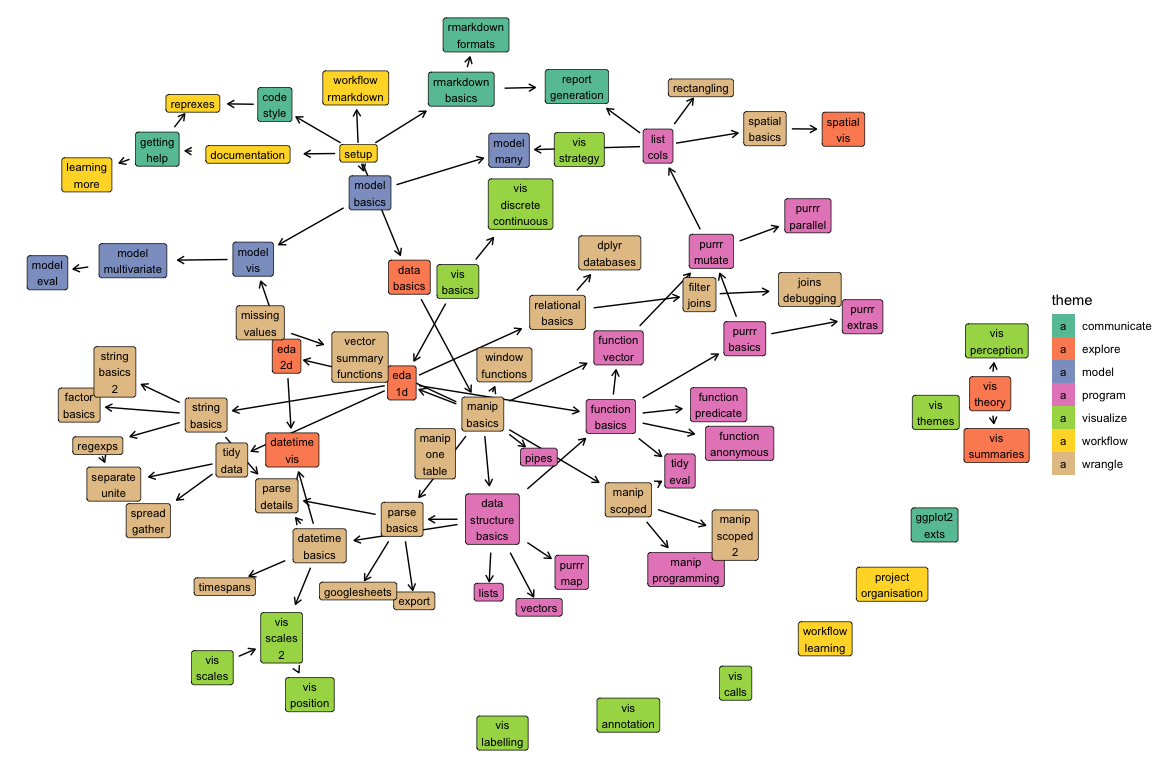
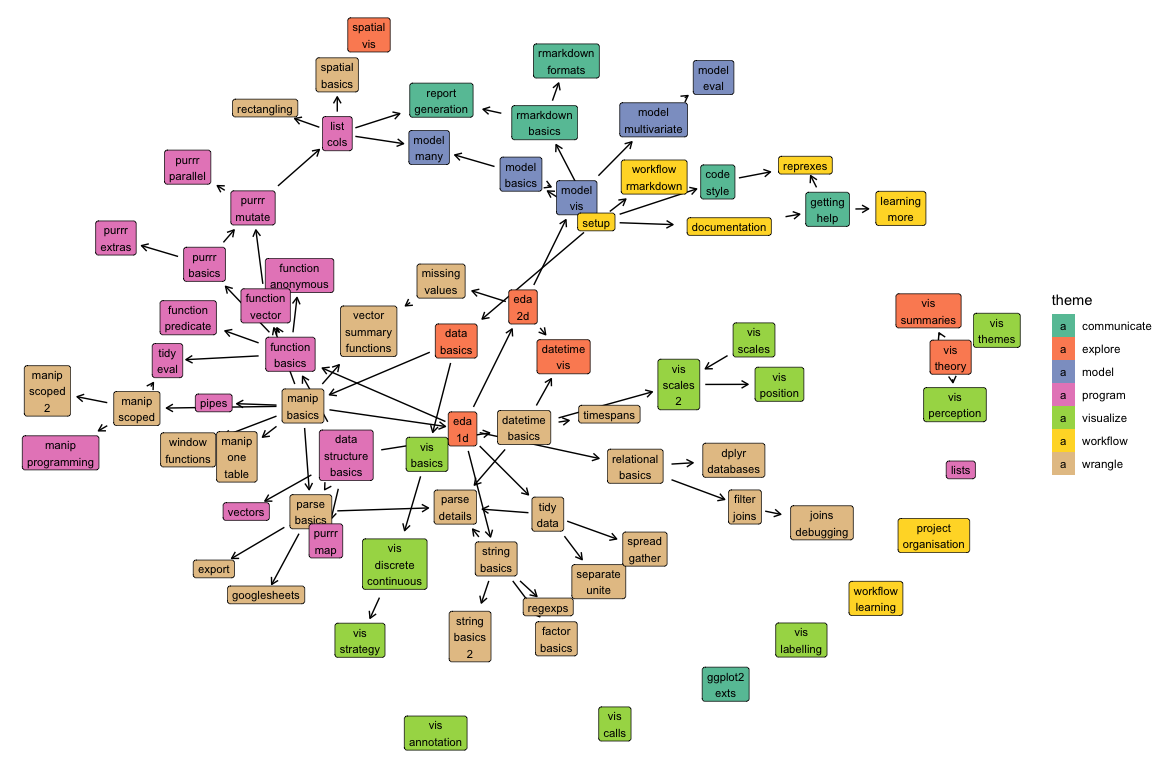
Update

Changed region(s): [[0.0, 0.0, 0.9062, 0.9375], [0.5, 0.6562, 0.8438, 0.9688], [0.3438, 0.9062, 0.4688, 1.0]]

diff --git a/docs/data-structure-basics.md b/docs/data-structure-basics.md
@@ -6,7 +6,7 @@ title: Data structure basics
 
 # Data structure basics <small class='program'>[program]</small>
 <small>(Builds on: [Manipulation basics](manip-basics.md))</small>  
-<small>(Leads to: [Date/time basics](datetime-basics.md), [Function basics](function-basics.md), [Lists](lists.md), [Parsing basics](parse-basics.md), [Iteration basics](purrr-map.md), [Atomic vectors](vectors.md))</small>
+<small>(Leads to: [Date/time basics](datetime-basics.md), [Function basics](function-basics.md), [Parsing basics](parse-basics.md), [Iteration basics](purrr-map.md), [Atomic vectors](vectors.md))</small>
 
 
 It's helpful to know a little bit about how data structures are organised in R. In this reading, you'll learn about vectors, lists, and tibbles.

diff --git a/docs/lists.md b/docs/lists.md
@@ -5,7 +5,7 @@ title: Lists
 <!-- Generated automatically from lists.yml. Do not edit by hand -->
 
 # Lists <small class='program'>[program]</small>
-<small>(Builds on: [Data structure basics](data-structure-basics.md))</small>
+
 
 Lists are R's most flexible data structure because you can put anything
 inside a list, even other lists. They power tibbles and data frames,
